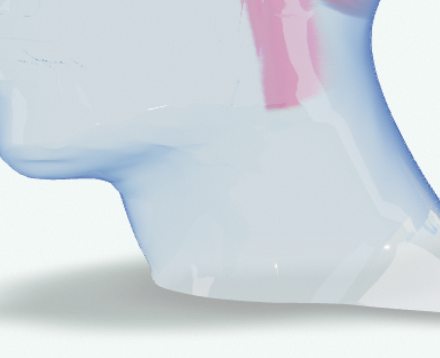
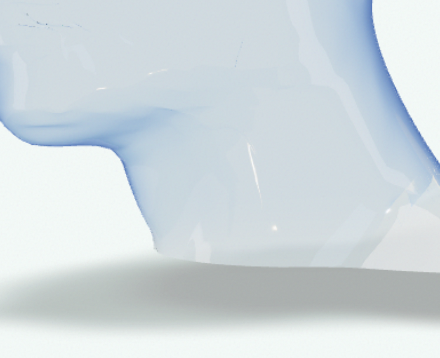
3D head: smaller, flatter brain seated in upper cranium with even glass clearance; short stem

diff --git a/src/components/three/brainGeometry.ts b/src/components/three/brainGeometry.ts
@@ -68,11 +68,11 @@ export function createBrainGeometry(detail = 40) {
   const right = lobe([0.62, 0.8, 1.22], detail, 0.33, 0.085);
   const cere = lobe([0.56, 0.32, 0.42], Math.max(10, detail - 18), 0, 0.05, 0.25);
   cere.translate(0, -0.6, -0.8);
-  const stem = new THREE.CylinderGeometry(0.17, 0.12, 1.0, 20, 1, true);
+  const stem = new THREE.CylinderGeometry(0.17, 0.12, 1.3, 20, 1, true);
   stem.deleteAttribute("uv");
   const sc = new Float32Array(stem.attributes.position.count * 3);
   for (let i = 0; i < stem.attributes.position.count; i++) sc.set([ROSE.r, ROSE.g, ROSE.b], i * 3);
   stem.setAttribute("color", new THREE.BufferAttribute(sc, 3));
-  stem.rotateX(0.3); stem.translate(0, -0.95, -0.3);
+  stem.rotateX(0.3); stem.translate(0, -1.1, -0.3); // short stem: ends at the skull base, not in the neck
   return mergeGeometries([left, right, cere, stem])!;
 }

diff --git a/src/components/three/HeadScene.tsx b/src/components/three/HeadScene.tsx
@@ -163,8 +163,8 @@ function GlassHead() {
             </mesh>
           </>
         )}
-        {/* brain fills most of the cranium; stem runs down toward the neck */}
-        <mesh geometry={brainGeo} material={brainMat} position={[0, 0.45, -0.04]} scale={[0.61, 0.67, 0.65]} rotation={[-0.1, 0, 0]} renderOrder={1} />
+        {/* brain sits in the upper cranium with an even ~0.08–0.17 gap to the glass (checked numerically + x-ray views); front lobe above the brow, short stem ends at the skull base */}
+        <mesh geometry={brainGeo} material={brainMat} position={[0, 0.72, 0]} scale={[0.54, 0.5, 0.55]} rotation={[-0.1, 0, 0]} renderOrder={1} />
       </group>
     </group>
   );

diff --git a/DESIGN.md b/DESIGN.md
@@ -44,7 +44,7 @@ Prompt repos read: `xianxian-sensen/motionsites-prompts` (328 MotionSites prompt
 
 ## 3D head (Manas + Tej)
 - **Model**: “Human Head Basemesh” (male) by **pistachio**, [OpenGameArt](https://opengameart.org/content/2-human-head-basemeshes), **CC0 1.0** (no attribution required, credited anyway in the footer). `scripts/build-head.mjs` applies 3x Loop subdivision and Taubin smoothing (volume-preserving, removes lumps that showed up as "cracks" in glass highlights). It then does an **exact plane clip** under the chin: triangles crossing the plane are split, with intersection vertices shared per edge, so the cut is watertight and perfectly straight. The cut is **capped** (fan from the loop centroid, own vertices, so it stays flat). Normals aren't stored; they're recomputed smooth at runtime. The mesh is quantized and compressed with **meshopt**: `public/models/head.glb` is about 145 KB (about 90 KB gzipped), about 44k triangles.
-- **Brain**: built procedurally at runtime (`src/components/three/brainGeometry.ts`), with no third-party asset. It has two hemispheres with a medial fissure, a cerebellum and a stem running down toward the neck. Gyri are domain-warped noise grooves at two scales. Vertex colours give a pink to rose gradient with deeper rose in the sulci. Detail is 40 on desktop and 30 on phones. It's scaled to fill most of the cranium (fit checked with an x-ray debug view: `?h3d=side|front|top|back`, which freezes animation).
+- **Brain**: built procedurally at runtime (`src/components/three/brainGeometry.ts`), with no third-party asset. It has two hemispheres with a medial fissure, a cerebellum and a short brainstem. Gyri are domain-warped noise grooves at two scales. Vertex colours give a pink to rose gradient with deeper rose in the sulci. Detail is 40 on desktop and 30 on phones. It sits in the upper cranium at scale (0.54, 0.5, 0.55), slightly flattened, at position (0, 0.72, 0). That leaves an even gap of about 0.08–0.17 units to the glass. The front lobe stays above the brow line, and a short stem ends at the skull base. Fit was checked numerically (no vertices outside, minimum gap 0.08) and with x-ray debug views: `?h3d=side|front|top|back`, which freezes animation.
 - **Materials**: the glass is drei `MeshTransmissionMaterial` (transmission 1, ior 1.45, roughness 0.035, thickness 0.38, light-blue tint and attenuation, chromatic aberration 0.06, light anisotropic blur, clearcoat, 6 samples, 640 px buffer on desktop and 320 px on mobile). A fresnel rim shell adds blue edges plus a soft specular glint. It's a child of the glass mesh, so it's hidden in the transmission pass and doesn't refract into "seam" lines. The brain is `MeshPhysicalMaterial` with vertex colours, sheen, clearcoat and a faint emissive for a subsurface-like glow. Lighting is a local lightformer studio (`Environment`: top softbox, side strips, front fill, warm ring), so there's no HDR download. drei `ContactShadows` sits under the neck.
 - **Motion**: `src/lib/headState.ts` is a shared mutable state. GSAP writes `intro` (time-based spin-in, started once the stage enters and the model is ready) and `scroll` (ScrollTrigger progress). `useFrame` reads them, so React doesn't re-render. The pinned Manas/Tej timeline only moves the wrapper `.ab-head` (yPercent), which keeps the existing choreography intact.
 - **Cost controls**: the three.js chunk is loaded with `next/dynamic` only when the section is within 1.5 viewports. DPR is [1.5, 1.75] on desktop and [1, 1.5] on phones, antialias is on, and the render loop stops (`frameloop="never"`) when the section is off-screen.
